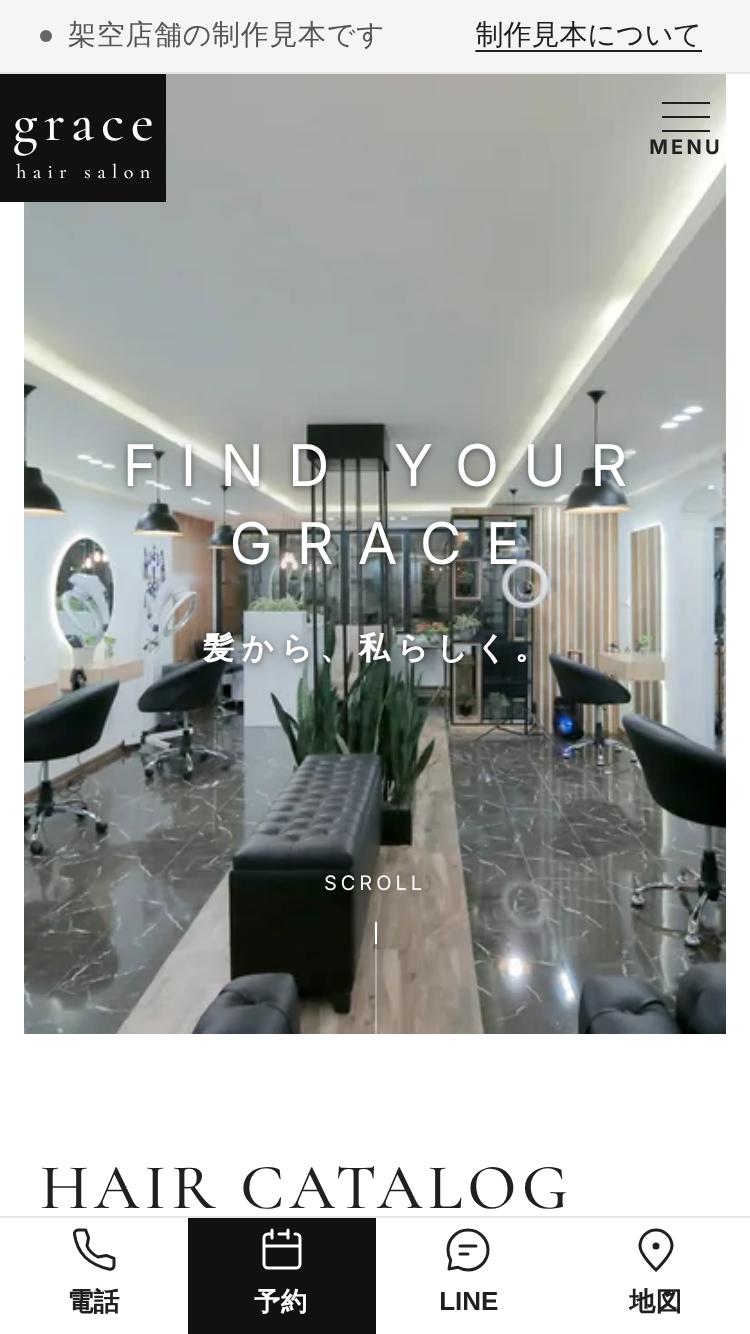
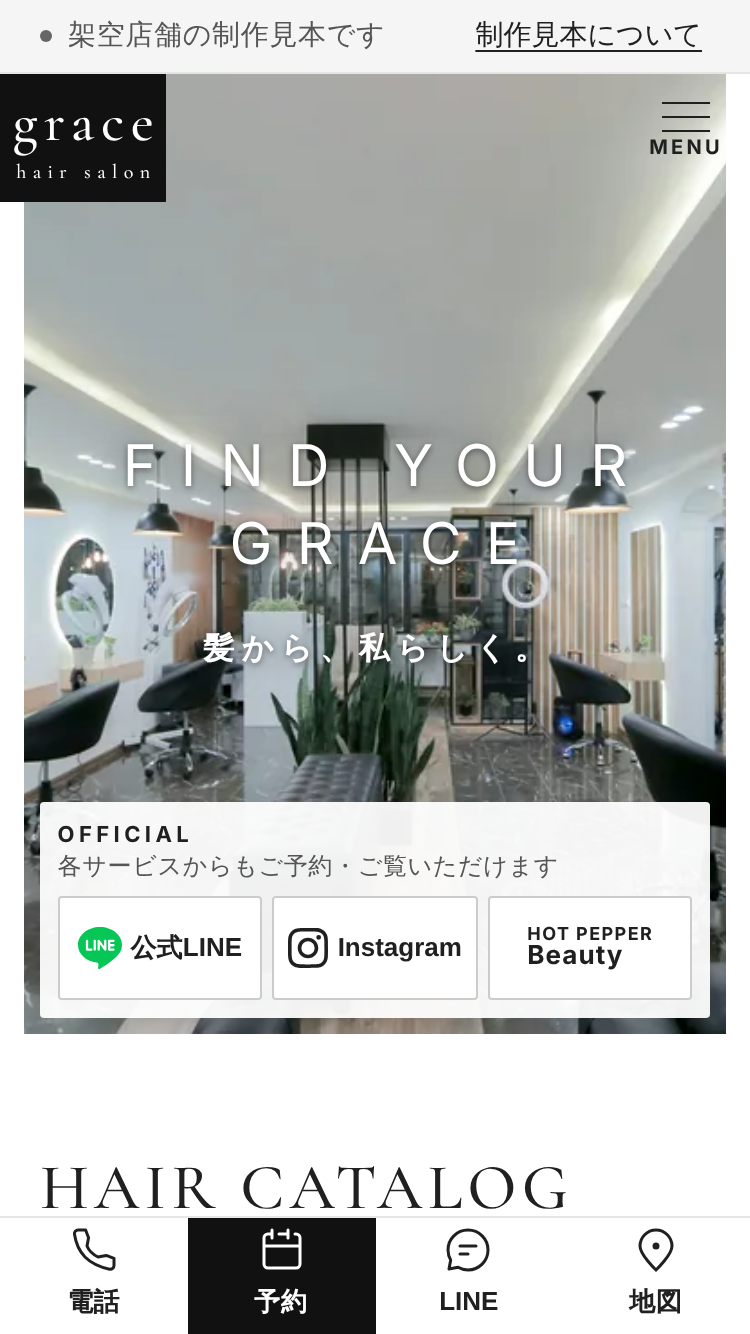
トップ右下に公式LINE・Instagram・ホットペッパービューティーのボタンを配置
- 外部サービスへのリンクを設置できることを見せる見本（押すとデモ案内を表示）
- LINE・Instagram は Simple Icons のロゴ、HPB は公式ロゴ素材がないため文字だけのボタン
- スマホは写真の下端に3つを横並び

Claude-Session: https://claude.ai/code/session_01U6BrpBVGjCZbtm2Y6rXKjn

Changed region(s): [[0.0307, 0.584, 0.9507, 0.7684]]

diff --git a/src/styles/home.css b/src/styles/home.css
@@ -183,6 +183,111 @@
   color: #fff;
   text-shadow: 0 0 8px rgba(0, 0, 0, 0.6);
 }
+/* 右下：公式LINE・Instagram・ホットペッパービューティーへのリンク（「設置できます」を見せる見本）。
+   HPB は公式ロゴの配布素材を確認できないため、ロゴは作らず文字だけのボタンにしている */
+.hero-links {
+  position: absolute;
+  right: clamp(0.75rem, 2vw, 1.75rem);
+  bottom: clamp(0.75rem, 2vw, 1.75rem);
+  z-index: 2;
+  padding: 0.7rem 0.75rem 0.75rem;
+  background: rgba(255, 255, 255, 0.94);
+  border-radius: var(--radius);
+  box-shadow: 0 2px 12px rgba(0, 0, 0, 0.12);
+}
+.hero-links-title {
+  margin: 0 0 0.5rem;
+  font-size: 0.75rem;
+  color: var(--text-2);
+  line-height: 1.4;
+}
+.hero-links-title .en {
+  display: block;
+  font-family: var(--font-nav);
+  font-size: 0.6875rem;
+  font-weight: 700;
+  letter-spacing: 0.2em;
+  color: var(--text);
+}
+.hero-links ul {
+  list-style: none;
+  margin: 0;
+  padding: 0;
+  display: flex;
+  gap: 0.5rem;
+}
+.hero-link {
+  display: inline-flex;
+  align-items: center;
+  justify-content: center;
+  gap: 0.45rem;
+  min-height: var(--tap);
+  padding: 0 0.85rem;
+  border: 1px solid var(--line-strong);
+  border-radius: var(--radius);
+  background: #fff;
+  color: var(--text);
+  font-size: 0.875rem;
+  font-weight: 700;
+  white-space: nowrap;
+  cursor: pointer;
+}
+.hero-link:hover {
+  border-color: var(--text);
+}
+.hero-link--line .brand-icon {
+  color: #06c755;
+}
+.hpb-mark {
+  display: inline-flex;
+  flex-direction: column;
+  align-items: flex-start;
+  font-family: var(--font-nav);
+  line-height: 1.05;
+}
+.hpb-mark span:first-child {
+  font-size: 0.6875rem;
+  font-weight: 700;
+  letter-spacing: 0.08em;
+}
+.hpb-mark span:last-child {
+  font-size: 0.9375rem;
+  font-weight: 700;
+  letter-spacing: 0.04em;
+}
+/* スマホ：コピー・SCROLL と重ならないよう、写真の下端に横いっぱいで並べる */
+@media (max-width: 599px) {
+  .hero-links {
+    left: 0.5rem;
+    right: 0.5rem;
+    bottom: 0.5rem;
+    padding: 0.55rem;
+  }
+  .hero-links-title {
+    margin-bottom: 0.4rem;
+  }
+  .hero-links ul {
+    display: grid;
+    grid-template-columns: repeat(3, minmax(0, 1fr));
+    gap: 0.35rem;
+  }
+  .hero-link {
+    width: 100%;
+    padding: 0 0.3rem;
+    font-size: 0.8125rem;
+    gap: 0.3rem;
+  }
+  .hpb-mark span:first-child {
+    font-size: 0.5625rem;
+  }
+  .hpb-mark span:last-child {
+    font-size: 0.8125rem;
+  }
+  .hero-scroll {
+    display: none;
+  }
+}
+
 /* PC：右の余白に縦書きのSNSリンク（実在アカウントには接続せず、デモ案内を表示） */
 .hero-sns {
   display: none;

diff --git a/index.html b/index.html
@@ -22,6 +22,15 @@
           </picture>
           <h1 class="hero-copy"><span class="en">FIND YOUR GRACE</span><span class="ja">髪から、私らしく。</span></h1>
           <span class="hero-scroll" aria-hidden="true"></span>
+          <!-- 右下：外部サービスへのリンク（設置できることを見せる見本。押すとデモ案内を表示） -->
+          <div class="hero-links" role="group" aria-labelledby="hero-links-title">
+            <p class="hero-links-title" id="hero-links-title"><span class="en">OFFICIAL</span>各サービスからもご予約・ご覧いただけます</p>
+            <ul>
+              <li><button type="button" class="hero-link hero-link--line" data-demo="line" data-brand="line" data-icon-size="22">公式LINE</button></li>
+              <li><button type="button" class="hero-link hero-link--insta" data-demo="instagram" data-brand="instagram" data-icon-size="20">Instagram</button></li>
+              <li><button type="button" class="hero-link hero-link--hpb" data-demo="hpb" aria-label="ホットペッパービューティー"><span class="hpb-mark" aria-hidden="true"><span>HOT PEPPER</span><span>Beauty</span></span></button></li>
+            </ul>
+          </div>
         </div>
         <div class="hero-sns" aria-label="SNS（デモ）" role="group">
           <span class="hero-sns-label" aria-hidden="true">FOLLOW</span>

diff --git a/CLAUDE.md b/CLAUDE.md
@@ -18,7 +18,7 @@
 | 形 | 写真は長方形。角丸は小さく（2〜4px）、影は最小限。アーチ型のマスクは使わない |
 | 写真 | **ヘアカタログはモデル写真が主役**（Unsplash の実写のみ。AI生成・Unsplash+ 不使用）。**モデルは東アジア系の女性・ロングヘアのみ**（2026-10-22 依頼。ショート・ボブ・ミディアム・メンズは使わない。国籍の記載がない写真は「日本人モデル」と表記しない）。GIRLY DROP は美容院でのヘア写真利用を控えるよう規約にあるため使わない。HPB・実在サロンの写真や、Web検索で出てきた権利の分からない写真は使わない（公開URLのため。顔にモザイクを入れても著作権は残る）。正面・斜め・横顔も可。髪型・前髪・毛先・髪色が分かるものだけ。モデルを架空スタッフとして紹介しない。カーテン・植物・タオル・小物を主役にしない。出典は `CREDITS.md` |
 | ページ順 | ヒーロー → HAIR CATALOG（大1＋小4のカタログ＋カテゴリで絞り込めるスタイル一覧。カテゴリはストレート／ウェーブ・カール／レイヤー／ヘアカラー／ヘアアレンジ） → PICK UP STYLE → MENU & PRICE → 料金シミュレーター → STYLIST → SALON → 初めての方へ・FAQ → ACCESS → 予約案内・フッター |
-| ヒーロー | 2026-10-24 依頼で、添付の参考画面のようなシンプルな構成に変更：白い余白の枠の中に**店内写真**（Unsplash。看板の文字はぼかし処理）、中央に白い英字コピー「FIND YOUR GRACE」＋「髪から、私らしく。」。左上に黒い四角のロゴ（白抜きの grace / hair salon）、右上に英字の小さなナビ（HAIR CATALOG / MENU / STYLIST / SALON / ACCESS / RESERVE。スマホのメニューは日本語併記）、PCは右の余白に縦書きの FOLLOW＋SNS（デモ案内）、下中央に SCROLL の細線。ヘッダーはヒーロー上だけ背景を透明に。全面の濃いオーバーレイ・スライドショー・オープニングなし。参考サイトのロゴ・文言・写真は使わない |
+| ヒーロー | 2026-10-24 依頼で、添付の参考画面のようなシンプルな構成に変更：白い余白の枠の中に**店内写真**（Unsplash。看板の文字はぼかし処理）、中央に白い英字コピー「FIND YOUR GRACE」＋「髪から、私らしく。」。左上に黒い四角のロゴ（白抜きの grace / hair salon）、右上に英字の小さなナビ（HAIR CATALOG / MENU / STYLIST / SALON / ACCESS / RESERVE。スマホのメニューは日本語併記）、PCは右の余白に縦書きの FOLLOW＋SNS（デモ案内）、下中央に SCROLL の細線。右下に「OFFICIAL」として公式LINE・Instagram・ホットペッパービューティーのボタン（設置できることを見せる見本。押すとデモ案内。HPB は公式ロゴ素材がないため文字のみ）。ヘッダーはヒーロー上だけ背景を透明に。全面の濃いオーバーレイ・スライドショー・オープニングなし。参考サイトのロゴ・文言・写真は使わない |
 | 演出 | 写真が最初から見えることを優先。オープニング・曇り・葉の影・見出しマスクは廃止。ホバーの軽い拡大とギャラリー絞り込みの FLIP（GSAP Flip を遅延読み込み）のみ |
 | 保存 | `src/lib/store.ts` に集約（localStorage のデモモード）。保存キーの接頭辞 `nagi-demo:` は画面に出ないため旧名のまま（初期化範囲を変えないため）。予約データのキーは `reservations-v2` |
 

diff --git a/CREDITS.md b/CREDITS.md
@@ -74,7 +74,7 @@
 | Instagram | Simple Icons v16.35.0 `instagram.svg`（<https://simpleicons.org/>） | CC0 1.0（SVGデータ）。商標は Meta に帰属 | 単色グリフのまま使用。変形・改変なし |
 | X | Simple Icons v16.35.0 `x.svg` | CC0 1.0。商標は X Corp. に帰属 | 単色（墨・白）で使用。変形なし |
 | LINE | Simple Icons v16.35.0 `line.svg` | CC0 1.0。商標は LY Corporation に帰属 | ブランドカラー #06C755 で使用。変形なし |
-| ホットペッパービューティー | ― | ― | 公式ロゴ素材を確認できなかったため、**ロゴは作らず文字ボタン**にしています |
+| ホットペッパービューティー | ― | ― | 公式ロゴ素材を確認できなかったため、**ロゴは作らず文字ボタン**にしています（トップ右下の「HOT PEPPER / Beauty」も端末標準の書体の文字だけで、公式ロゴの形・色は再現していません） |
 
 ### 各社ガイドラインの確認結果（2026-10-22）
 

diff --git a/docs/promo/README.md b/docs/promo/README.md
@@ -6,7 +6,7 @@
 
 | ファイル | 内容 |
 |---|---|
-| `01-pc-firstview.png` | PC（1440×900）：白い余白の枠に店内写真、中央に FIND YOUR GRACE／髪から、私らしく。左上に黒い四角のロゴ、右上に英字ナビ、右の余白に FOLLOW＋SNS |
+| `01-pc-firstview.png` | PC（1440×900）：白い余白の枠に店内写真、中央に FIND YOUR GRACE／髪から、私らしく。左上に黒い四角のロゴ、右上に英字ナビ、右の余白に FOLLOW＋SNS、右下に公式LINE・Instagram・ホットペッパービューティーのボタン |
 | `02-sp390-firstview.png` / `03-sp375-firstview.png` | スマホ（390×844／375×667）：店内写真と英字コピー、左上の黒いロゴ、右上の MENU ボタン |
 | `04-pc-hair-catalog.png` / `10-sp-hair-catalog.png` | HAIR CATALOG（大1＋小4、カテゴリラベル） |
 | `09-pc-style-list.png` | カテゴリで絞り込めるスタイル一覧 |
